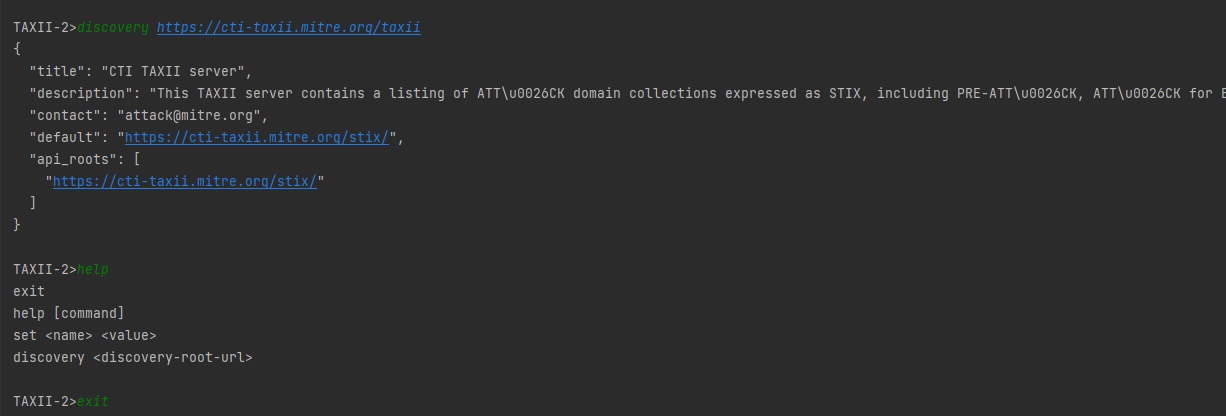
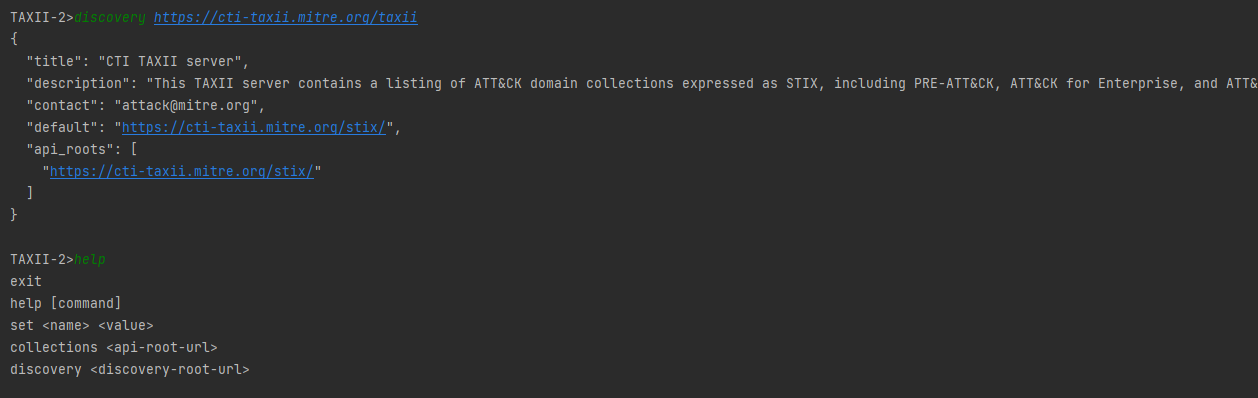
Get Collections API added

diff --git a/src/main/java/com/seshutechie/taxii2lib/TaxiiLib.java b/src/main/java/com/seshutechie/taxii2lib/TaxiiLib.java
@@ -1,8 +1,12 @@
 package com.seshutechie.taxii2lib;
 
 import com.seshutechie.taxii2lib.http.HttpUtil;
+import com.seshutechie.taxii2lib.stix.model.StixCollection;
+import com.seshutechie.taxii2lib.stix.model.StixCollectionResp;
 import com.seshutechie.taxii2lib.stix.model.StixDiscovery;
 import com.seshutechie.taxii2lib.util.JsonUtil;
+
+import java.util.List;
 
 /**
  * Main library class to access TAXII API.
@@ -27,6 +31,7 @@ public class TaxiiLib {
      *
      * @param discoveryRoot URL to get discovery details from (ex: https://cti-taxii.mitre.org/taxii)
      * @return STIX discovery details as String
+     * @throws TaxiiAppException error condition is raised as TaxiiAppException
      */
     public String getDiscovery(String discoveryRoot) throws TaxiiAppException {
         return HttpUtil.doDiscovery(discoveryRoot, user, password);
@@ -37,9 +42,36 @@ public class TaxiiLib {
      *
      * @param discoveryRoot URL to get discovery details from (ex: https://cti-taxii.mitre.org/taxii)
      * @return STIX discovery details
+     * @throws TaxiiAppException error condition is raised as TaxiiAppException
      */
     public StixDiscovery getDiscoveryObject(String discoveryRoot) throws TaxiiAppException {
         String discovery = getDiscovery(discoveryRoot);
         return (StixDiscovery) JsonUtil.jsonToObject(discovery, StixDiscovery.class);
+    }
+
+    /**
+     * Find the list of collections from a given STIX API root, and return as a raw string
+     * You can use discovery and pick default api_root from the response.
+     *
+     * @param apiRoot API Root URL to get collections list (ex: https://cti-taxii.mitre.org/stix/)
+     * @return a raw string of collection objects
+     * @throws TaxiiAppException error condition is raised as TaxiiAppException
+     */
+    public String getCollections(String apiRoot) throws TaxiiAppException {
+        return HttpUtil.getCollections(apiRoot, user, password);
+    }
+
+    /**
+     * Find the list of collections from a given STIX API root, and return as a list of objects
+     * You can use discovery and pick default api_root from the response.
+     *
+     * @param apiRoot API Root URL to get collections list (ex: https://cti-taxii.mitre.org/stix/)
+     * @return a list of collection objects
+     * @throws TaxiiAppException error condition is raised as TaxiiAppException
+     */
+    public List<StixCollection> getCollectionsObject(String apiRoot) throws TaxiiAppException {
+        String collections = getCollections(apiRoot);
+        StixCollectionResp collectionResp = (StixCollectionResp) JsonUtil.jsonToObject(collections, StixCollectionResp.class);
+        return collectionResp.getCollections();
     }
 }

diff --git a/src/main/java/com/seshutechie/taxii2lib/http/HttpUtil.java b/src/main/java/com/seshutechie/taxii2lib/http/HttpUtil.java
@@ -19,7 +19,7 @@ public class HttpUtil {
     public static String doDiscovery(String url, String user, String password) throws TaxiiAppException {
         CloseableHttpClient httpclient = HttpClients.createDefault();
         HttpGet httpGet = new HttpGet(url);
-        updateDiscoveryHeaders(httpGet, user, password);
+        updateCommonHeaders(httpGet, user, password);
         String result = null;
 
         try {
@@ -34,7 +34,7 @@ public class HttpUtil {
         return result;
     }
 
-    public static void updateDiscoveryHeaders(HttpGet httpGet, String user, String password) {
+    public static void updateCommonHeaders(HttpGet httpGet, String user, String password) {
         httpGet.setHeader(HttpHeaders.ACCEPT, StixConstants.HTTP_ACCEPT_VALUE);
         httpGet.setHeader(HttpHeaders.AUTHORIZATION, getAuthorizationString(user, password));
         httpGet.setHeader(StixConstants.HTTP_HEADER_VERSION, StixConstants.SITX_VERSION);
@@ -42,5 +42,23 @@ public class HttpUtil {
 
     private static String getAuthorizationString(String user, String password) {
         return AUTH_BASIC + EncodeUtil.base64Encode(user + ":" + password);
+    }
+
+    public static String getCollections(String apiRoot, String user, String password) throws TaxiiAppException {
+        CloseableHttpClient httpclient = HttpClients.createDefault();
+        HttpGet httpGet = new HttpGet(apiRoot + StixConstants.SUFFIX_COLLECTIONS);
+        updateCommonHeaders(httpGet, user, password);
+        String result = null;
+
+        try {
+            CloseableHttpResponse response = httpclient.execute(httpGet);
+            HttpEntity entity = response.getEntity();
+            if (entity != null) {
+                result = EntityUtils.toString(entity);
+            }
+        } catch (IOException e) {
+            throw new TaxiiAppException(e);
+        }
+        return result;
     }
 }

diff --git a/src/main/java/com/seshutechie/taxii2lib/stix/model/StixCollection.java b/src/main/java/com/seshutechie/taxii2lib/stix/model/StixCollection.java
@@ -1,0 +1,66 @@
+package com.seshutechie.taxii2lib.stix.model;
+
+import com.google.gson.annotations.SerializedName;
+
+public class StixCollection {
+    private String id;
+    private String title;
+    private String description;
+
+    @SerializedName("can_read")
+    private boolean canRead;
+
+    @SerializedName("can_write")
+    private boolean canWrite;
+
+    @SerializedName("media_types")
+    private String[] mediaTypes;
+
+    public String getId() {
+        return id;
+    }
+
+    public void setId(String id) {
+        this.id = id;
+    }
+
+    public String getTitle() {
+        return title;
+    }
+
+    public void setTitle(String title) {
+        this.title = title;
+    }
+
+    public String getDescription() {
+        return description;
+    }
+
+    public void setDescription(String description) {
+        this.description = description;
+    }
+
+    public boolean isCanRead() {
+        return canRead;
+    }
+
+    public void setCanRead(boolean canRead) {
+        this.canRead = canRead;
+    }
+
+    public boolean isCanWrite() {
+        return canWrite;
+    }
+
+    public void setCanWrite(boolean canWrite) {
+        this.canWrite = canWrite;
+    }
+
+    public String[] getMediaTypes() {
+        return mediaTypes;
+    }
+
+    public void setMediaTypes(String[] mediaTypes) {
+        this.mediaTypes = mediaTypes;
+    }
+}

diff --git a/src/main/java/com/seshutechie/taxii2lib/util/JsonUtil.java b/src/main/java/com/seshutechie/taxii2lib/util/JsonUtil.java
@@ -4,27 +4,21 @@ import com.google.gson.Gson;
 import com.google.gson.GsonBuilder;
 import com.google.gson.JsonObject;
 import com.google.gson.JsonParser;
-import com.seshutechie.taxii2lib.TaxiiAppException;
-import com.seshutechie.taxii2lib.stix.model.StixDiscovery;
 
 public class JsonUtil {
-    private static final JsonParser parser = new JsonParser();
+    private static final Gson gson = new GsonBuilder().disableHtmlEscaping().create();
+    private static final Gson prettyGson = new GsonBuilder().disableHtmlEscaping().setPrettyPrinting().create();
 
-    public static String prettyJson(String jsonString) throws TaxiiAppException {
-        JsonObject json = parser.parse(jsonString).getAsJsonObject();
-
-        Gson gson = new GsonBuilder().setPrettyPrinting().create();
-        String prettyJson = gson.toJson(json);
-
-        return prettyJson;
+    public static String prettyJson(String jsonString) {
+        JsonObject json = JsonParser.parseString(jsonString).getAsJsonObject();
+        return prettyGson.toJson(json);
     }
 
     public static Object jsonToObject(String jsonString, Class objType) {
-        Gson gson = new Gson();
         return gson.fromJson(jsonString, objType);
     }
 
     public static String objectToJson(Object object) {
-        return new Gson().toJson(object);
+        return gson.toJson(object);
     }
 }

diff --git a/src/test/java/com/seshutechie/taxii2lib/test/SomeDirtyTest.java b/src/test/java/com/seshutechie/taxii2lib/test/SomeDirtyTest.java
@@ -3,13 +3,25 @@ package com.seshutechie.taxii2lib.test;
 import com.seshutechie.taxii2lib.TaxiiAppException;
 import com.seshutechie.taxii2lib.TaxiiLib;
 import com.seshutechie.taxii2lib.http.HttpUtil;
+import com.seshutechie.taxii2lib.stix.model.StixCollection;
 import com.seshutechie.taxii2lib.stix.model.StixDiscovery;
 import com.seshutechie.taxii2lib.util.JsonUtil;
+
+import java.util.List;
 
 public class SomeDirtyTest {
     public static void main(String[] args) throws Exception {
 //        testHttpDiscovery();
-        testTaxiiDiscovery();
+//        testTaxiiDiscovery();
+        testGetCollections();
+    }
+
+    private static void testGetCollections() throws TaxiiAppException {
+        TaxiiLib taxiiLib = new TaxiiLib();
+        taxiiLib.setBasicAuthorization("guest", "guest");
+        List<StixCollection> collections = taxiiLib.getCollectionsObject("https://cti-taxii.mitre.org/stix/");
+        System.out.println(JsonUtil.objectToJson(collections));
+//        System.out.println(JsonUtil.prettyJson(JsonUtil.objectToJson(collections)));
     }
 
     private static void testTaxiiDiscovery() throws TaxiiAppException {

diff --git a/src/main/java/com/seshutechie/taxii2lib/tool/commands/CollectionsCommand.java b/src/main/java/com/seshutechie/taxii2lib/tool/commands/CollectionsCommand.java
@@ -1,0 +1,34 @@
+package com.seshutechie.taxii2lib.tool.commands;
+
+import com.seshutechie.taxii2lib.TaxiiAppException;
+import com.seshutechie.taxii2lib.tool.TaxiiContext;
+import com.seshutechie.taxii2lib.util.JsonUtil;
+
+public class CollectionsCommand extends Command {
+    public static final String NAME = "collections";
+    private final TaxiiContext context = TaxiiContext.getContext();
+
+    public CollectionsCommand() {
+        super(null);
+    }
+
+    public CollectionsCommand(ParsedCommand parsedCommand) {
+        super(parsedCommand);
+    }
+
+    @Override
+    public void execute() throws TaxiiAppException {
+        if(parsedCommand.getArgumentCount() == 1) {
+            String discovery = context.getTaxiiLib().getCollections(parsedCommand.getArgument(0));
+            System.out.println(JsonUtil.prettyJson(discovery));
+        } else {
+            System.out.printf("Invalid arguments: %s.\nUsage: %s\n",
+                    this.parsedCommand.getLine(), getUsage());
+        }
+    }
+
+    @Override
+    public String getUsage() {
+        return "collections <api-root-url>";
+    }
+}

diff --git a/src/main/java/com/seshutechie/taxii2lib/tool/TaxiiTool.java b/src/main/java/com/seshutechie/taxii2lib/tool/TaxiiTool.java
@@ -12,18 +12,19 @@ public class TaxiiTool {
     private static final TaxiiLib taxiiLib = new TaxiiLib();
 
     public static void main(String[] args) {
-        Scanner scanner = new Scanner(System.in);
-        try {
+        try (Scanner scanner = new Scanner(System.in)) {
             TaxiiContext context = TaxiiContext.getContext();
             context.setTaxiiLib(taxiiLib);
 
             while (true) {
-                showPrompt();
-                String line = scanner.nextLine();
-                processCommandLine(line);
+                try {
+                    showPrompt();
+                    String line = scanner.nextLine();
+                    processCommandLine(line);
+                } catch (Exception ex) {
+                    System.out.printf("Unable to handle. Got Error: %s", ex.getMessage());
+                }
             }
-        } finally {
-            scanner.close();
         }
     }
 

diff --git a/src/main/java/com/seshutechie/taxii2lib/stix/model/StixDiscovery.java b/src/main/java/com/seshutechie/taxii2lib/stix/model/StixDiscovery.java
@@ -8,7 +8,8 @@ public class StixDiscovery {
     private String contact;
     @SerializedName("default")
     private String defaultApiRoot;
-    private String[] api_roots;
+    @SerializedName("api_roots")
+    private String[] apiRoots;
 
     public String getTitle() {
         return title;
@@ -34,19 +35,19 @@ public class StixDiscovery {
         this.contact = contact;
     }
 
-    public String[] getApi_roots() {
-        return api_roots;
-    }
-
-    public void setApi_roots(String[] api_roots) {
-        this.api_roots = api_roots;
-    }
-
     public String getDefaultApiRoot() {
         return defaultApiRoot;
     }
 
     public void setDefaultApiRoot(String defaultApiRoot) {
         this.defaultApiRoot = defaultApiRoot;
+    }
+
+    public String[] getApiRoots() {
+        return apiRoots;
+    }
+
+    public void setApiRoots(String[] apiRoots) {
+        this.apiRoots = apiRoots;
     }
 }

diff --git a/src/main/java/com/seshutechie/taxii2lib/tool/commands/CommandFactory.java b/src/main/java/com/seshutechie/taxii2lib/tool/commands/CommandFactory.java
@@ -11,6 +11,7 @@ public class CommandFactory {
         commandsMap.put(ExitCommand.NAME, new ExitCommand(null));
         commandsMap.put(SetCommand.NAME, new SetCommand(null));
         commandsMap.put(DiscoveryCommand.NAME, new DiscoveryCommand(null));
+        commandsMap.put(CollectionsCommand.NAME, new CollectionsCommand());
         commandsMap.put(HelpCommand.NAME, new HelpCommand(null, commandsMap));
     }
 

diff --git a/src/main/java/com/seshutechie/taxii2lib/stix/model/StixCollectionResp.java b/src/main/java/com/seshutechie/taxii2lib/stix/model/StixCollectionResp.java
@@ -1,0 +1,15 @@
+package com.seshutechie.taxii2lib.stix.model;
+
+import java.util.List;
+
+public class StixCollectionResp {
+    List<StixCollection> collections;
+
+    public List<StixCollection> getCollections() {
+        return collections;
+    }
+
+    public void setCollections(List<StixCollection> collections) {
+        this.collections = collections;
+    }
+}

diff --git a/src/main/java/com/seshutechie/taxii2lib/stix/StixConstants.java b/src/main/java/com/seshutechie/taxii2lib/stix/StixConstants.java
@@ -5,4 +5,5 @@ public class StixConstants {
 
     public static final String SITX_VERSION = "2.0";
     public static final String HTTP_HEADER_VERSION = "version";
+    public static final String SUFFIX_COLLECTIONS = "/collections";
 }
